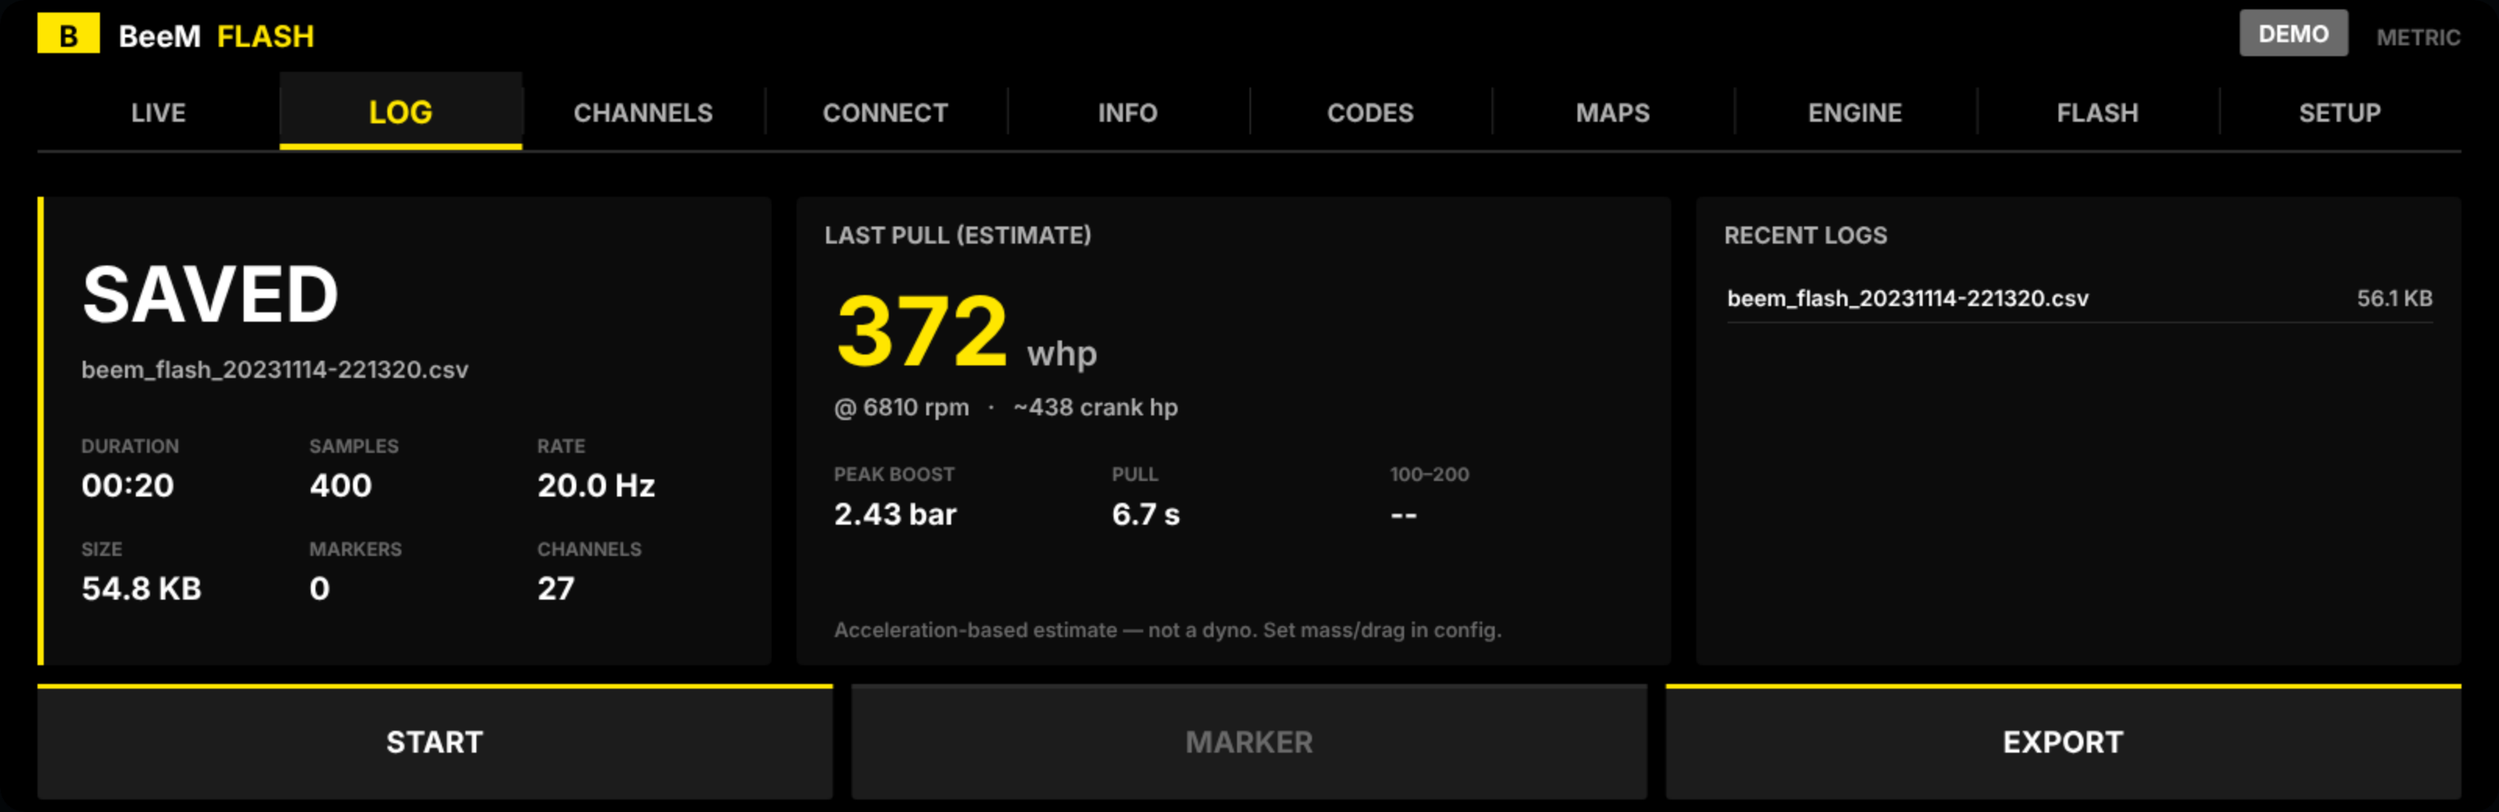
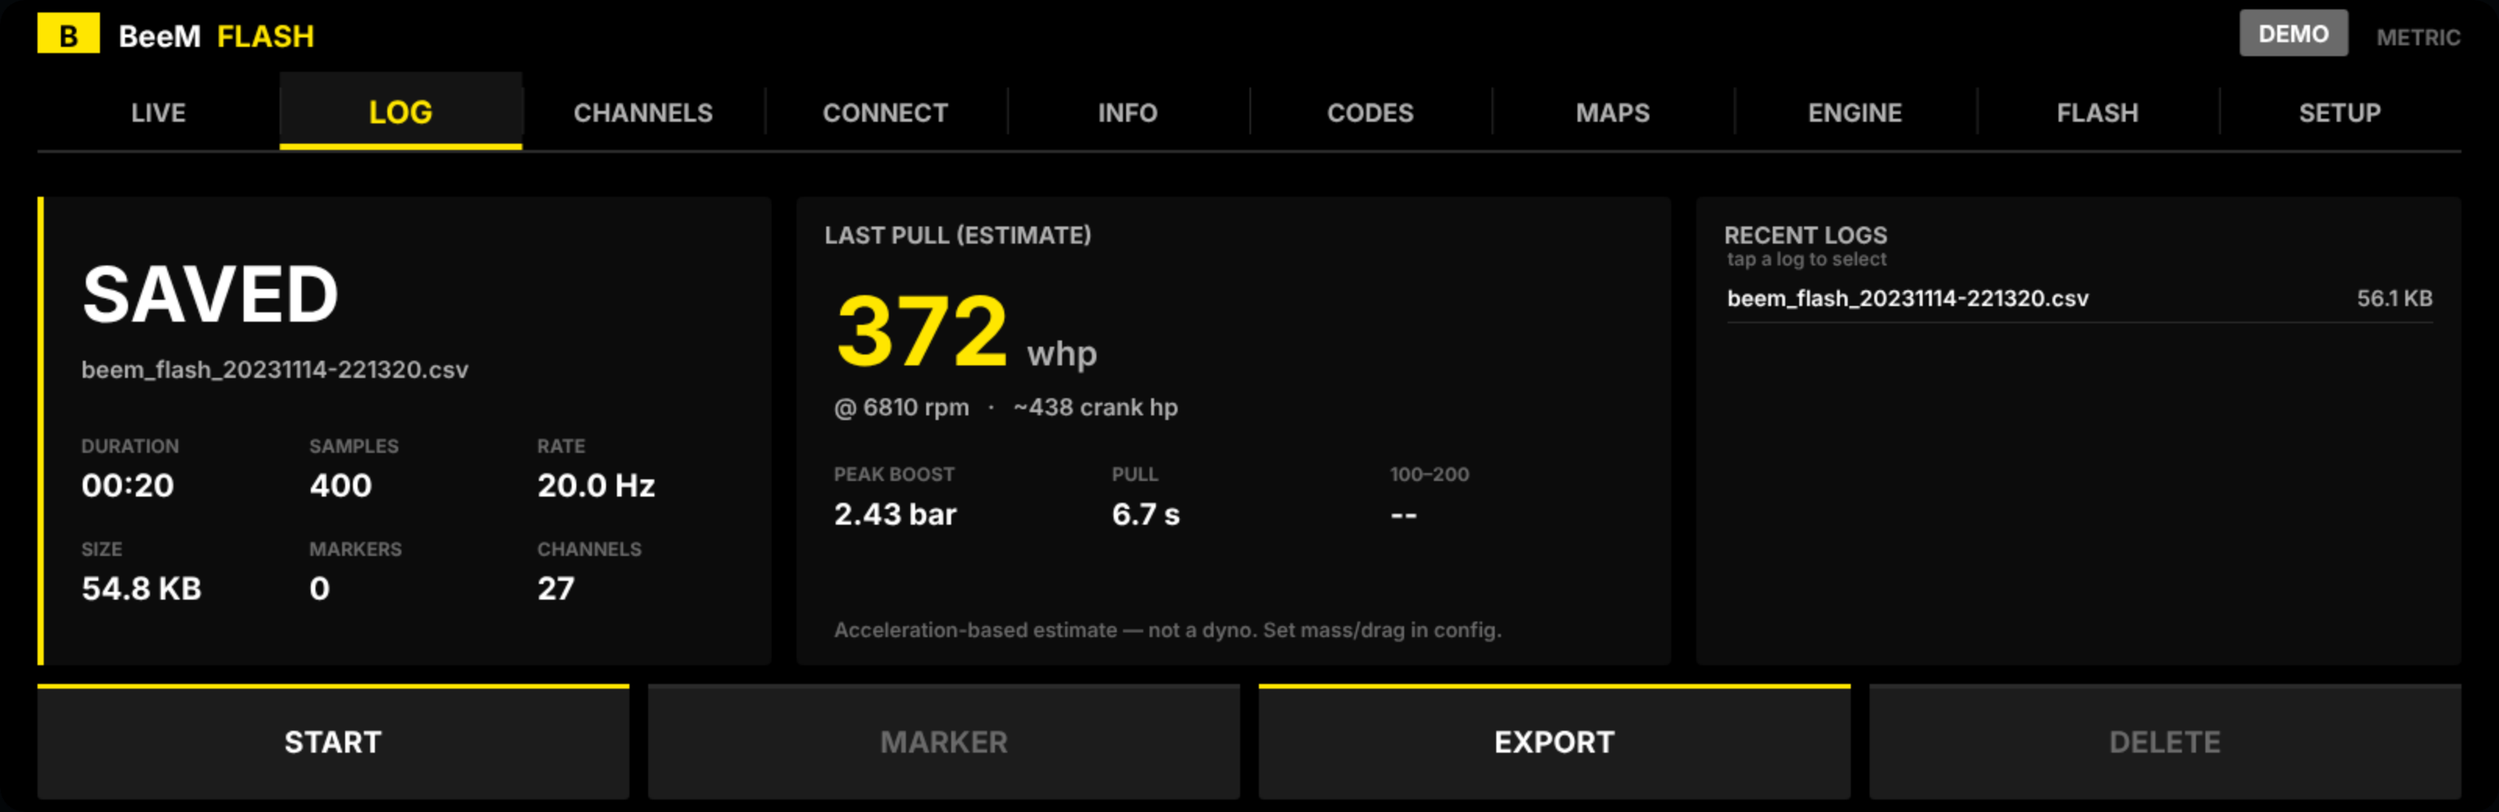
v2.18.0: on-car fixes - bridge address, stale listener, log delete, INFO, ENET
From a night of on-car testing (uid 12226 not root; phone joined the car's
own DIRECT-BMW Wi-Fi at 172.16.222.105/27; car wlan_bridge at
172.16.222.97 - same subnet):

- BRIDGE address ranking was backwards. The car's OWN Wi-Fi (DIRECT-BMW,
  172.16.222.x) is exactly what a phone joins, but it was ranked LAST while
  an internal container veth (10.1.1.1) was shown above it. Now phone-
  reachable addresses lead, each with a plain hint ("the car's own Wi-Fi
  (DIRECT-BMW) - join it on your phone"), and the veths / 160.48 diagnostic
  vlans sink to the bottom. This is the whole reason a connection could not
  be made: the app was showing the wrong address to dial.

- BRIDGE "EADDRINUSE": turning the bridge on after it had been on failed
  because the previous listener still held the port. start() now closes and
  retries once on EADDRINUSE, and the toggle releases any listener it holds
  before re-binding.

- LOG: recorded sessions can now be DELETED. Tap a log in RECENT LOGS to
  select it; the action bar gains a two-step DELETE that removes the CSV
  from storage. (Previously logs could be seen but not removed.)

- INFO: the SVK ran ~90 characters and overflowed into the next column. It
  now collapses to the calibration (SWFL) unit the tune match picked plus a
  count ("00005D55506406  (+5 more units)"), and ANY value that is still too
  wide is clipped so nothing can overlap again.

- ENET/DoIP: removed the ENET: ON / ENET SCAN buttons from the head unit -
[…]

diff --git a/apps/wali_datalog/main.js b/apps/wali_datalog/main.js
@@ -151,6 +151,7 @@ App.prototype.start = function (ctx) {
   // ENGINE tab state: which control row is selected, the pending value, the
   // two-step confirm flag and the last result line.
   this.eng = { sel: 0, pending: {}, confirm: false, busy: false, msg: '', ok: false };
+  this.logSel = -1; this.logConfirmDel = false;   // RECENT LOGS selection + delete confirm
 
   // ---- wireless bridge ---------------------------------------------------
   // The consent gate is the app's own state machine (acknowledge -> enable ->
@@ -444,8 +445,8 @@ App.prototype._enetToggleEnable = function () {
 
 App.prototype._enetScan = function () {
   var self = this;
-  if (!this.enet.enabled) { this._flash('Enable the connection first.'); return; }
-  this.enet.scan(function () { return self._makeDiscoverySocket(); }, { stopOnFirst: true }).then(function (found) {
+  if (!this.enet.enabled) { this._flash('Enable the connection first.'); return Promise.resolve(); }
+  return this.enet.scan(function () { return self._makeDiscoverySocket(); }, { stopOnFirst: true }).then(function (found) {
     if (found && found.length) {
       self.enet.setVehicle({ host: found[0].host, logicalAddress: found[0].logicalAddress, vin: found[0].vin });
       self._flash('Found vehicle at ' + found[0].host);
@@ -592,7 +593,8 @@ App.prototype._actions = function () {
   if (s === 'log') return [
     { label: logging ? 'STOP' : 'START', active: logging, fn: function () { self._toggleRecord(); } },
     { label: 'MARKER', disabled: !logging, fn: function () { self.marker('mark'); } },
-    { label: 'EXPORT', fn: function () { self._export(); } }
+    { label: 'EXPORT', fn: function () { self._export(); } },
+    { label: this.logConfirmDel ? 'CONFIRM' : 'DELETE', danger: true, disabled: this.logSel < 0 || logging, fn: function () { self._logDelete(); } }
   ];
   if (s === 'channels') return [
     { label: 'LOG', fn: function () { self._toggleLog(); } },
@@ -625,10 +627,11 @@ App.prototype._actions = function () {
         { label: 'BACK', fn: function () { self.connectView = 'link'; } }
       ];
     }
+    // ENET SCAN is deliberately NOT here: on the head unit there is no ENET
+    // cable, so it can never find a car (see the panel text). The car is already
+    // reached through the head-unit link, and a phone uses WIRELESS BRIDGE.
     return [
       { label: self.connect.checking ? 'CHECKING…' : 'CHECK LINK', disabled: self.connect.checking, fn: function () { self._connectCheck(); } },
-      { label: this.enet.enabled ? 'ENET: ON' : 'ENET: OFF', active: this.enet.enabled, fn: function () { self._enetToggle(); } },
-      { label: 'ENET SCAN', disabled: !this.enet.enabled || this.enet.scanning, fn: function () { self._enetScan(); } },
       { label: 'WIRELESS BRIDGE', fn: function () { self.connectView = 'bridge'; } }
     ];
   }
@@ -904,6 +907,7 @@ App.prototype._bridgeToggle = function () {
   var host = this._bridgeHost();
   this.bserver.host = host;
   this.bserver.port = Number(this.getSetting('bridgeport')) || 13400;
+  this.bserver.stop();   // release any listener we still hold before re-binding
   this.bserver.start().then(function (r) {
     if (r.ok) {
       self.bstate.mode = 'direct';
@@ -1028,14 +1032,32 @@ App.prototype._bridgeHosts = function () {
     var bd = require('./bridgediag');
     var list = (bd.netInfo() || []).filter(function (i) {
       return i.ip && i.ip !== '127.0.0.1' && !i.internal;
-    }).map(function (i) { return { name: i.iface, address: i.ip }; });
-    // The car's own internal vlans are not reachable from a phone; show the
-    // likely-useful addresses first rather than burying them.
-    list.sort(function (a, b) { return rank(a.address) - rank(b.address); });
-    function rank(ip) {
-      if (/^160\.48\./.test(ip)) return 3;          // car-internal vlan
-      if (/^172\.16\./.test(ip)) return 2;          // internal wlan bridge (CarPlay / rear seat)
-      return 1;                                      // a network something else can join
+    }).map(function (i) {
+      return { name: i.iface, address: i.ip, hint: hintFor(i.iface, i.ip), rank: rankFor(i.iface, i.ip) };
+    });
+    // Phone-reachable addresses first. The car's OWN Wi-Fi (DIRECT-BMW, which
+    // hands out 172.16.222.x) is exactly what a phone joins, so it leads; the
+    // phone-hotspot address the car joined is next; the internal container veths
+    // (10.x) and the car's diagnostic vlans (160.48.x) are not phone-reachable
+    // and sink to the bottom.
+    list.sort(function (a, b) { return a.rank - b.rank; });
+    function rankFor(iface, ip) {
+      iface = (iface || '').toLowerCase();
+      if (/^172\.16\./.test(ip)) return 0;                 // the car's own DIRECT-BMW Wi-Fi
+      if (/^wl/.test(iface)) return 1;                      // any Wi-Fi interface
+      if (/^172\.20\.10\./.test(ip) || /^192\.168\./.test(ip)) return 1;  // a phone hotspot
+      if (/^169\.254\./.test(ip)) return 6;                // link-local, not useful
+      if (/^10\./.test(ip)) return 5;                       // internal container veth
+      if (/^160\.48\./.test(ip)) return 5;                 // car diagnostic vlan
+      return 3;
+    }
+    function hintFor(iface, ip) {
+      if (/^172\.16\./.test(ip)) return 'the car\u2019s own Wi-Fi (DIRECT-BMW) \u2014 join it on your phone';
+      if (/^172\.20\.10\./.test(ip) || /^192\.168\./.test(ip)) return 'your phone\u2019s hotspot';
+      if (/^wl/i.test(iface || '')) return 'a Wi-Fi network';
+      if (/^10\./.test(ip)) return 'internal \u2014 not reachable from a phone';
+      if (/^160\.48\./.test(ip)) return 'car network \u2014 not reachable from a phone';
+      return '';
     }
     return list;
   } catch (e) { return []; }
@@ -1208,6 +1230,20 @@ App.prototype._infoRead = function () {
   }).then(function (res) {
     self.info.items = res.items || [];
     self.info.tune = res.tune || null;
+    // The SVK lists several software units and runs ~90 characters, which
+    // overflowed the value column. Collapse it to the calibration (SWFL) unit
+    // the tune match already picked, plus a count; keep the full list in .full.
+    for (var si = 0; si < self.info.items.length; si++) {
+      var it = self.info.items[si];
+      if (it.did === 0xF101 && it.ok && typeof it.value === 'string') {
+        var units = it.value.split(/\s+/).filter(Boolean);
+        if (units.length > 1) {
+          it.full = it.value;
+          var cal = (self.info.tune && self.info.tune.calId) || units[units.length - 1];
+          it.value = cal + '  (+' + (units.length - 1) + ' more units)';
+        }
+      }
+    }
     // The flash prerequisite means "the owner has SEEN what is on this car", so it
     // must require that the car actually identified itself. ecuinfo.read resolves
     // ok:true even when every single DID failed (each error is swallowed into an
@@ -1430,7 +1466,7 @@ App.prototype.buildView = function () {
     demo: this.latest.demo, live: this.latest.live,
     vals: this.latest.values,
     rec: rec,
-    sessions: sessions,
+    sessions: sessions, logSel: this.logSel, logConfirmDel: this.logConfirmDel,
     enabled: this.enabled,
     displayed: this.displayed,
     maxtiles: this.maxTiles(),
@@ -1451,6 +1487,7 @@ App.prototype.buildView = function () {
       moduleCount: this._codeModules().length
     },
     flash: {
+      flashDir: ((this.ctx.dataDir || '') ? (this.ctx.dataDir + '/flash/') : 'flash/'),
       armed: this.flash.armed, running: this.flash.running, confirm: this.flash.confirm,
       progress: this.flash.progress, step: this.flash.step, status: this.flash.status,
       descriptor: this.flash.descriptor, result: this.flash.result,
@@ -1530,12 +1567,41 @@ App.prototype._onTap = function (x, y) {
 // Page-specific touch targets inside the content band (screens.CONTENT).
 App.prototype._contentTap = function (x, y) {
   var R = screens.CONTENT, s = this.tab;
+  if (s === 'log') return this._logTap(x, y, R);
   if (s === 'channels') return this._channelsTap(x, y, R);
   if (s === 'setup') return this._setupTap(x, y, R);
   if (s === 'maps') return this._mapsTap(x, y, R);
   if (s === 'engine') return this._engineTap(x, y, R);
   if (s === 'connect') return this._connectTap(x, y, R);
   if (s === 'flash') return this._flashTap(x, y, R);
+};
+
+// LOG: tap a recorded session to select it; the action bar can then DELETE it.
+App.prototype._logTap = function (x, y, R) {
+  var sess = this._sessions();
+  if (!sess.length) return;
+  var g = screens.logGeom(R);
+  for (var i = 0; i < sess.length && i < g.max; i++) {
+    var yy = g.y0 + i * g.rh;
+    if (x >= g.lx + 10 && x <= g.lx + g.lw - 10 && y >= yy - 22 && y <= yy + g.rh - 24) {
+      this.logSel = (this.logSel === i) ? -1 : i;
+      this.logConfirmDel = false;
+      return;
+    }
+  }
+};
+
+// Two-step delete of the selected session. Erases the recorded CSV from storage.
+App.prototype._logDelete = function () {
+  var sess = this._sessions();
+  if (this.logSel < 0 || !sess[this.logSel]) return;
+  if (!this.logConfirmDel) { this.logConfirmDel = true; return; }
+  this.logConfirmDel = false;
+  var name = sess[this.logSel].name;
+  try { if (this.storage && this.storage.remove) this.storage.remove(name); } catch (e) { this._flash('Delete failed: ' + ((e && e.message) || e)); return; }
+  this._sessionsDirty = true;
+  this.logSel = -1;
+  this._flash('Deleted ' + name, true);
 };
 
 // ENGINE: tap a row to select it, or tap one of its option chips to stage that

diff --git a/apps/wali_datalog/screens.js b/apps/wali_datalog/screens.js
@@ -247,21 +247,33 @@ function log(cv, t, view, R) {
     cv.text('Record a log, then do a clean WOT pull — the peak power estimate,', mx + 24, R.y + 128, 17, t.faint, {});
     cv.text('peak boost and 100–200 time are captured automatically.', mx + 24, R.y + 150, 17, t.faint, {});
   }
-  // right: recent logs
-  var lx = mx + mw + 16, lw = R.x + R.w - lx;
-  D.panel(cv, t, lx, R.y, lw, R.h, { title: 'RECENT LOGS' });
+  // right: recent logs (tap one to select; the action bar can then DELETE it)
+  var g = logGeom(R);
+  D.panel(cv, t, g.lx, R.y, g.lw, R.h, { title: 'RECENT LOGS' });
   var sess = view.sessions || [];
   if (sess.length === 0) {
-    cv.text('No logs yet.', lx + 24, R.y + 86, 22, t.dim, {});
-    cv.text('Sessions export to USB with a summary footer.', lx + 20, R.y + 118, 16, t.faint, {});
+    cv.text('No logs yet.', g.lx + 24, R.y + 86, 22, t.dim, {});
+    cv.text('Record a session, then export or delete it here.', g.lx + 20, R.y + 118, 16, t.faint, {});
   } else {
-    for (var s = 0; s < Math.min(sess.length, 6); s++) {
-      var yy = R.y + 70 + s * 38;
-      cv.text(sess[s].name, lx + 20, yy, 17, t.text, {});
-      cv.text(F.humanBytes(sess[s].size), lx + lw - 18, yy, 17, t.dim, { align: 'r' });
-      cv.fillRect(lx + 20, yy + 10, lw - 38, 1, t.line);
+    cv.text('tap a log to select', g.lx + 20, R.y + 44, 14, t.faint, {});
+    for (var s = 0; s < sess.length && s < g.max; s++) {
+      var yy = g.y0 + s * g.rh, seld = s === view.logSel;
+      if (seld) { cv.roundRect(g.lx + 10, yy - 20, g.lw - 20, g.rh - 4, 3, t.panel3); cv.fillRect(g.lx + 10, yy - 20, 3, g.rh - 4, t.accent); }
+      cv.text(sess[s].name, g.lx + 20, yy, 17, seld ? t.accent : t.text, { weight: seld ? 'bold' : 'normal' });
+      cv.text(F.humanBytes(sess[s].size), g.lx + g.lw - 18, yy, 17, t.dim, { align: 'r' });
+      if (!seld) cv.fillRect(g.lx + 20, yy + 10, g.lw - 38, 1, t.line);
+    }
+    if (view.logConfirmDel && view.logSel >= 0 && sess[view.logSel]) {
+      cv.text('Delete "' + sess[view.logSel].name + '"? tap DELETE again', g.lx + 20, R.y + R.h - 16, 15, t.crit, { weight: 'bold' });
     }
   }
+}
+
+// Geometry of the RECENT LOGS rows, shared by the renderer and the tap handler.
+function logGeom(R) {
+  var pw = 470, mx = R.x + pw + 16, mw = 560;
+  var lx = mx + mw + 16, lw = R.x + R.w - lx;
+  return { lx: lx, lw: lw, y0: R.y + 70, rh: 38, max: 6 };
 }
 
 // ------------------------------------------------------------- CHANNELS -----
@@ -498,15 +510,13 @@ function connect(cv, t, view, R) {
   var y2 = wrapText(cv, t, sub, sx, sy + 40, pw - 48, 19, t.dim);
   wrapText(cv, t, 'BeeM-Flash reads your car over the head unit’s own diagnostic link. Live data, fault codes and ECU info use it with no connection step — you don’t need to “connect”.', sx, y2 + 16, pw - 48, 18, t.faint);
 
-  // SECONDARY: ENET/DoIP — optional, advanced, and honest that it won't connect here.
+  // SECONDARY: ENET / DoIP - a plain answer to "can this ever find the car?"
   var vx = R.x + pw + 16, vw = R.x + R.w - vx;
-  D.panel(cv, t, vx, R.y, vw, R.h, { title: 'ENET / DoIP — OPTIONAL' });
+  D.panel(cv, t, vx, R.y, vw, R.h, { title: 'ENET / DoIP' });
   var ex = vx + 20, ey = R.y + 64;
-  ey = wrapText(cv, t, 'For a plug-in ENET cable (OBD port → Ethernet) on a laptop. ENET: ON only enables this app’s DoIP client; SCAN then looks for a car on the network. On the head unit there is no ENET cable, so “No vehicle found” is CORRECT — nothing is broken.', ex, ey, vw - 40, 16, t.faint) + 10;
-  ey = wrapText(cv, t, 'You do not need this: LIVE, CODES, INFO and FLASH already talk to the car over the head unit’s own link. For a phone, use WIRELESS BRIDGE.', ex, ey, vw - 40, 16, t.dim) + 12;
-  if (e.vehicle) { cv.text('Vehicle: ' + (e.vehicle.host || '?'), ex, ey, 17, t.text, { weight: 'bold' }); }
-  else if (e.scanning) { cv.text('Scanning…', ex, ey, 17, t.warn, { weight: 'bold' }); }
-  else { cv.text(e.enabled ? 'ENET ON — tap ENET SCAN' : 'ENET OFF (tap ENET: OFF to enable)', ex, ey, 15, e.enabled ? t.warn : t.faint, {}); }
+  ey = wrapText(cv, t, 'This looks for a car over a plug-in ENET cable (OBD port → Ethernet) on a laptop. The head unit has no such cable, so it will NEVER find a vehicle here — that is expected, not a fault.', ex, ey, vw - 40, 17, t.text) + 10;
+  ey = wrapText(cv, t, 'You do not need it. Your car is ALREADY connected through the head unit’s own link — that is what LIVE, CODES, INFO and FLASH use (see “Connected” on the left).', ex, ey, vw - 40, 16, t.dim) + 8;
+  wrapText(cv, t, 'To let a PHONE reach the car, use WIRELESS BRIDGE below.', ex, ey, vw - 40, 16, t.faint);
 }
 
 // --------------------------------------------------------------- CODES ------
@@ -582,8 +592,11 @@ function flash(cv, t, view, R) {
   }
   if (!f.descriptor) {
     cv.text('NO CALIBRATION LOADED', R.x + 24, py + 50, 24, t.warn, { weight: 'bold' });
-    cv.text(f.status || 'Place your descriptor + calibration under the app data dir (flash/).', R.x + 24, py + 86, 19, t.dim, {});
-    cv.text('Nothing is bundled — you supply the calibration, address and keys. See docs/FLASHING.md.', R.x + 24, py + 116, 18, t.faint, {});
+    if (f.status) cv.text(f.status, R.x + 24, py + 84, 18, t.crit, {});
+    cv.text('RELOAD re-scans the app\u2019s data folder for a tune you placed there. To LOAD one:', R.x + 24, py + 114, 18, t.dim, {});
+    cv.text('1.  put your calibration file + a descriptor.json into:', R.x + 40, py + 142, 17, t.faint, {});
+    cv.text((f.flashDir || '<app data>/flash/'), R.x + 60, py + 166, 18, t.accent, { weight: 'bold' });
+    cv.text('2.  tap RELOAD.   Nothing is bundled — you supply the tune, address and keys (docs/FLASHING.md).', R.x + 40, py + 192, 17, t.faint, {});
     return;
   }
   var d = f.descriptor;
@@ -760,6 +773,13 @@ function info(cv, t, view, R) {
     // securityAccessDenied/serviceNotSupportedInActiveSession mean it does but
     // is withholding it - a completely different fix.
     var shown = it.ok ? it.value : (it.nrcName ? 'not available (' + it.nrcName + ')' : it.value);
+    // Never let a value bleed into the next column: clip to the cell width.
+    var avail = cw - 230 - 16;
+    shown = String(shown);
+    if (cv.textWidth(shown, vf, it.ok ? 'bold' : 'normal') > avail) {
+      while (shown.length > 4 && cv.textWidth(shown + '\u2026', vf, 'normal') > avail) shown = shown.slice(0, -1);
+      shown += '\u2026';
+    }
     cv.text(shown, x + 230, y, vf, it.ok ? t.text : t.faint, { weight: it.ok ? 'bold' : 'normal' });
     if (pitch >= 23) cv.fillRect(x, y + 11, cw - 24, 1, t.line);
   }
@@ -793,7 +813,7 @@ module.exports = {
   W: W, H: H, CONTENT: CONTENT, BAR: BAR,
   tabRects: tabRects, barRects: barRects, scaleCv: scaleCv,
   chrome: chrome, content: content,
-  live: live, log: log, channels: channels, maps: maps, engine: engine, engineGeom: engineGeom, setupGeom: setupGeom, connect: connect, codes: codes, info: info, flash: flash, setup: setup,
+  live: live, log: log, logGeom: logGeom, channels: channels, maps: maps, engine: engine, engineGeom: engineGeom, setupGeom: setupGeom, connect: connect, codes: codes, info: info, flash: flash, setup: setup,
   cval: cval,
   byName: content
 };

diff --git a/test/run.js b/test/run.js
@@ -742,10 +742,10 @@ Promise.resolve()
 
     ok(!app.diag.supported && !app.monitor.supported, 'app: boots with no transport until connected');
 
-    // CONNECT redesign: BTN_A = CHECK LINK (head-unit link), BTN_B = ENET toggle
-    // (acknowledges + enables the optional DoIP path in one tap), BTN_C = ENET SCAN.
-    app.onButton('BTN_B'); // ENET toggle on
-    ok(app.enet.acknowledged && app.enet.enabled, 'app: the ENET toggle acknowledges and enables in one tap');
+    // ENET is no longer a head-unit action-bar button (it can never find a car
+    // there); the optional DoIP client is still exercised through its methods.
+    app._enetToggle(); // acknowledge + enable in one call
+    ok(app.enet.acknowledged && app.enet.enabled, 'app: the ENET toggle acknowledges and enables in one call');
     ok(!app.diag.supported, 'app: ENET enabled but no vehicle yet -> still no transport');
 
     ctx.doipSocket = function () {
@@ -753,8 +753,7 @@ Promise.resolve()
         deliver(announceBytes('WBATESTVIN0000001', 0x1000), { address: '169.254.1.1' });
       });
     };
-    app.onButton('BTN_C'); // Scan
-    return new Promise(function (resolve) { setTimeout(resolve, 20); }).then(function () {
+    return app._enetScan().then(function () {
       ok(app.diag.supported && app.monitor.supported, 'app: after a successful scan, a real transport is wired in');
       eq(app.enet.vehicle.host, '169.254.1.1', 'app: discovered vehicle host stored');
 
@@ -824,7 +823,7 @@ Promise.resolve()
         });
         });
       }).then(function () {
-        app.onButton('BTN_B'); // Disable
+        app._enetToggle(); // Disable (ENET is driven by its method, not a button, now)
         ok(!app.diag.supported && !app.monitor.supported, 'app: disabling tears the transport back out');
 
         app.stop(); // release timers so the test process can exit cleanly

diff --git a/apps/wali_datalog/bridgeserver.js b/apps/wali_datalog/bridgeserver.js
@@ -56,7 +56,7 @@ BridgeServer.prototype._net = function () {
 // start() -> Promise<{ ok, host, port, error }>
 // Never throws: a sandbox refusal is an ANSWER (and the UI shows the errno),
 // not a crash.
-BridgeServer.prototype.start = function () {
+BridgeServer.prototype.start = function (_retried) {
   var self = this;
   if (this.listening) return Promise.resolve({ ok: true, host: this.boundHost, port: this.port });
   var net = this._net();
@@ -75,12 +75,23 @@ BridgeServer.prototype.start = function () {
     }
     srv.on('error', function (e) {
       // EACCES / EPERM -> the sandbox forbids listening (the helper is needed).
-      // EADDRINUSE     -> something already owns the port.
-      self.lastError = (e && e.code) ? e.code : ((e && e.message) || String(e));
+      // EADDRINUSE     -> the port is still held, almost always by OUR OWN
+      //   previous listener that had not finished closing (toggling off then
+      //   on fast, or a reload). Drop whatever we have and try ONCE more after
+      //   a moment before giving up.
+      var code = (e && e.code) ? e.code : ((e && e.message) || String(e));
       self.listening = false;
       self.server = null;
-      self._log('bridge listener failed: ' + self.lastError);
-      settle({ ok: false, error: self.lastError });
+      self._log('bridge listener failed: ' + code);
+      if (code === 'EADDRINUSE' && !_retried) {
+        try { srv.close(); } catch (x) {}
+        setTimeout(function () {
+          self.start(true).then(settle);
+        }, 600);
+        return;
+      }
+      self.lastError = code;
+      settle({ ok: false, error: code });
     });
     try {
       if (self.host) srv.listen(self.port, self.host, ready);
